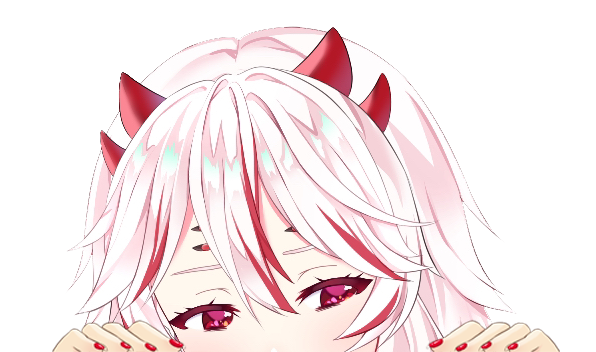
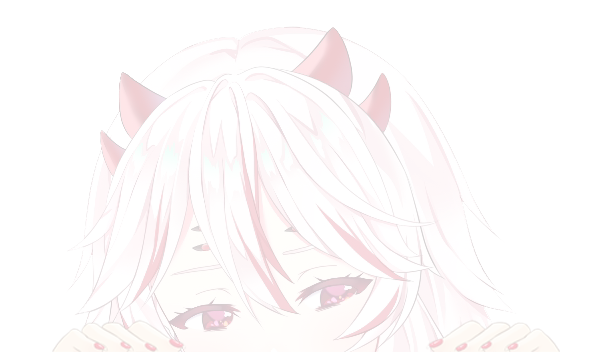
Update layout and style of card and DesignControls components
This commit refactors the layout and style of components in card.tsx and DesignControls.tsx. Key changes include adjusting gaps and font sizes, repositioning elements, and improving overall alignment. The changes aim to enhance the responsiveness and visual hierarchy of the user interface.

Changed region(s): [[0.0906, 0.0625, 0.9362, 1.0], [0.8154, 0.8125, 0.8456, 0.8438], [0.7852, 0.5938, 0.8154, 0.625]]

diff --git a/packages/ui/src/card.tsx b/packages/ui/src/card.tsx
@@ -16,7 +16,6 @@ const CardWrapper = styled.div.attrs<{ $fontColor: string }>
     color: props.$fontColor
   }}))`
     min-height: 600px;
-    width: 100%;
     display: flex;
     flex-direction: column;
     align-items: center;
@@ -26,20 +25,8 @@ const CardWrapper = styled.div.attrs<{ $fontColor: string }>
 
 const CardHeader = styled.div`
     position: relative;
-    width: 500px;
     display: flex;
     justify-content: center;
-    
-    div {
-        width: 90%;
-        position: absolute;
-        bottom: -408px;
-        z-index: 1;
-
-        img {
-            opacity: 0.3;
-        }
-    }
 `
 
 const CardHeaderText = styled.h1.attrs<{ $headerColor: string, $fontSize: number }>
@@ -56,7 +43,7 @@ const GameCard = styled.ul.attrs<{ $backgroundColor: string, $borderColor: strin
 (props => ({
   style: {
     borderColor: props.$borderColor,
-    background: props.$backgroundColor
+    backgroundColor: props.$backgroundColor
   }
 }))`
     width: 400px;
@@ -64,6 +51,10 @@ const GameCard = styled.ul.attrs<{ $backgroundColor: string, $borderColor: strin
     display: flex;
     flex-direction: column;
     border: 1px solid;
+    background-image: url("/goombingo/gomilurk.png");
+    background-repeat: no-repeat;
+    background-size: contain;
+    background-position: bottom;
 `
 
 const GameCardRow = styled.li.attrs<{ $borderColor: string }>
@@ -98,6 +89,12 @@ const ControlWrapper = styled.div`
     display: flex;
     gap: 64px;
     align-items: flex-end;
+    flex-wrap: wrap;
+
+    @media screen and (max-width: 600px) {
+        justify-content: center;
+        gap: 16px;
+    }
     & > div:first-of-type {
         display: flex;
         flex-direction: column;
@@ -140,9 +137,6 @@ const Card: React.FC<CardProps> = ({gameCard, ...props}) => {
         >
           Goommunity Bingo
         </CardHeaderText>
-        <div>
-          <img src="/goombingo/gomilurk.png" alt=""/>
-        </div>
       </CardHeader>
       <GameCard $backgroundColor={backgroundColor} $borderColor={borderColor}>
         {

diff --git a/packages/ui/src/DesignControls.tsx b/packages/ui/src/DesignControls.tsx
@@ -6,8 +6,16 @@ import {styled} from "styled-components";
 
 const ColorControlWrapper = styled.div`
     display: flex;
+    flex-wrap: wrap;
     gap: 32px;
     height: 100%;
+
+    @media screen and (max-width: 600px) {
+        padding: 16px;
+        height: auto;
+        justify-content: center;
+    }
+    
     h2 {
         font-size: 12px;
         margin: 32px 0 8px 0;
